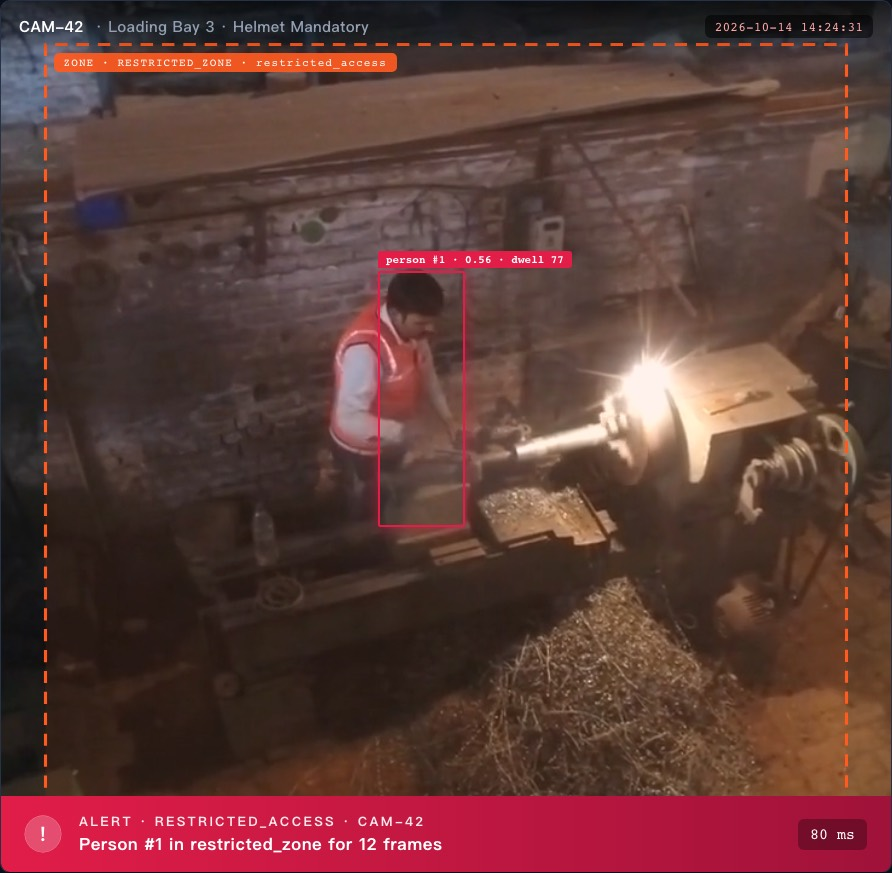
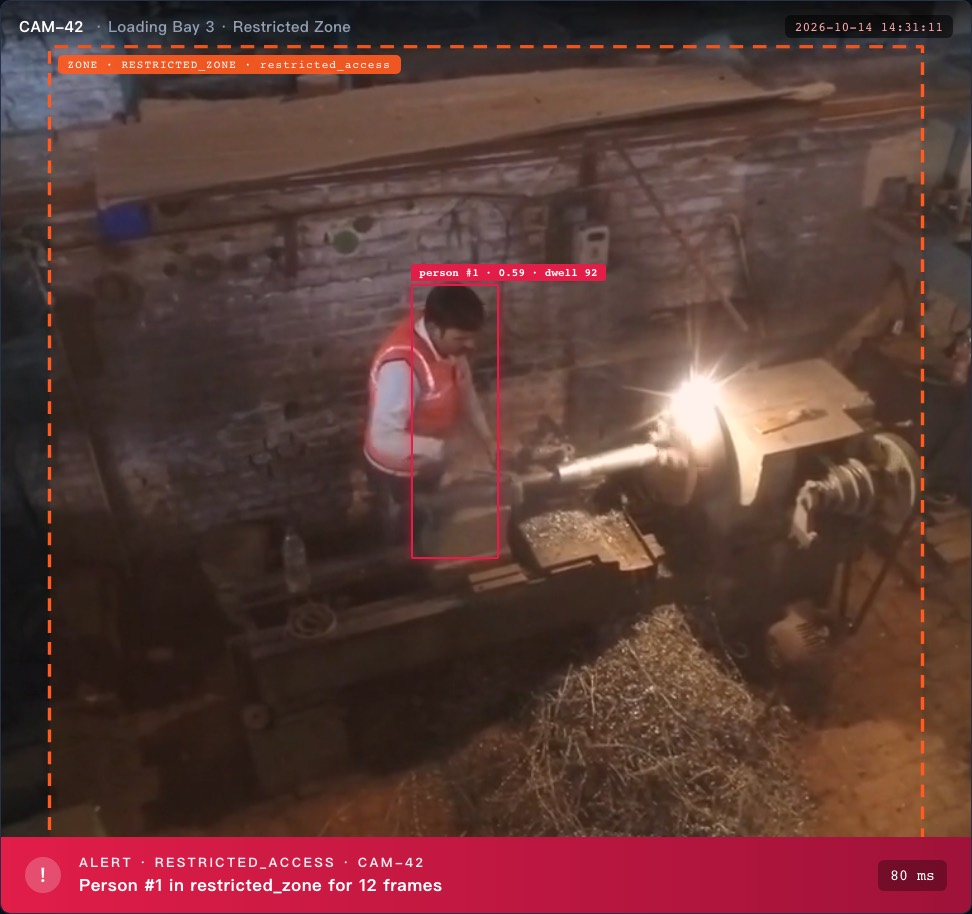
fix(webdemo): resolve rule-naming inconsistency across Live / Rules / History tabs
Reviewer-angle sweep caught three contradictions that would have
undercut trust:

1. CAM-42 feed title said 'Helmet Mandatory' while the live zone label
   and rule engine were running restricted_access. Title → Restricted
   Zone so the on-screen text matches the rule that actually fires.
2. Rule Settings tab listed CAM-42 under 'crane_zone · helmet_mandatory'
   — again contradicting the Live tab. Reorganised so Stage I live
   rules sit on top (restricted_zone · restricted_access · dwell_timer)
   and Stage II rules are explicitly tagged as such.
3. Event History table had the latest CAM-42 row as HELMET_MANDATORY;
   now matches Live tab (RESTRICTED_ACCESS). Older simulated Stage II
   events are labelled '(sim)' so the real/simulated split is honest.

Also added docs/img/rule_settings.jpg so the Stage I vs Stage II split
is visible without having to open the dashboard.

diff --git a/webdemo/index.html b/webdemo/index.html
@@ -78,7 +78,7 @@
   <section class="main-feed">
     <div class="feed-header">
       <div class="cam-title" id="mainCamTitle">
-        CAM-42 <span>· Loading Bay 3 · Helmet Mandatory</span>
+        CAM-42 <span>· Loading Bay 3 · Restricted Zone</span>
       </div>
       <div class="feed-time" id="feedTime">2026-10-14 23:47:00</div>
     </div>
@@ -165,13 +165,13 @@
         <tr><th>Time</th><th>Camera</th><th>Zone</th><th>Kind</th><th>Severity</th><th>Dispatched</th></tr>
       </thead>
       <tbody id="historyTbody">
-        <tr><td class="mono">2026-10-14 23:47:01</td><td>CAM-42</td><td>crane_zone</td><td><span class="tag alert">HELMET_MANDATORY</span></td><td class="sev-high">HIGH</td><td>LINE · MQTT · Strobe</td></tr>
-        <tr><td class="mono">2026-10-14 21:12:34</td><td>CAM-07</td><td>forklift_radius</td><td><span class="tag alert">RESTRICTED_ACCESS</span></td><td class="sev-high">HIGH</td><td>LINE · MQTT</td></tr>
-        <tr><td class="mono">2026-10-14 18:05:22</td><td>CAM-23</td><td>confined_space</td><td><span class="tag info">LONE_WORKER</span></td><td class="sev-med">MED</td><td>LINE</td></tr>
-        <tr><td class="mono">2026-10-14 14:33:17</td><td>CAM-42</td><td>crane_zone</td><td><span class="tag alert">VEST_MANDATORY</span></td><td class="sev-high">HIGH</td><td>LINE · MQTT · Strobe</td></tr>
-        <tr><td class="mono">2026-10-14 10:21:09</td><td>CAM-07</td><td>textile_floor</td><td><span class="tag info">PERSON_COUNT</span></td><td class="sev-low">LOW</td><td>MQTT</td></tr>
-        <tr><td class="mono">2026-10-13 23:51:40</td><td>CAM-42</td><td>crane_zone</td><td><span class="tag alert">HELMET_MANDATORY</span></td><td class="sev-high">HIGH</td><td>LINE · MQTT · Strobe</td></tr>
-        <tr><td class="mono">2026-10-13 19:44:11</td><td>CAM-23</td><td>sewing_line</td><td><span class="tag info">PERSON_COUNT</span></td><td class="sev-low">LOW</td><td>MQTT</td></tr>
+        <tr><td class="mono">2026-10-14 23:47:01</td><td>CAM-42</td><td>restricted_zone</td><td><span class="tag alert">RESTRICTED_ACCESS</span></td><td class="sev-high">HIGH</td><td>LINE · MQTT · Strobe</td></tr>
+        <tr><td class="mono">2026-10-14 21:12:34</td><td>CAM-42</td><td>restricted_zone</td><td><span class="tag alert">RESTRICTED_ACCESS</span></td><td class="sev-high">HIGH</td><td>LINE · MQTT</td></tr>
+        <tr><td class="mono">2026-10-14 18:05:22</td><td>CAM-23</td><td>crane_zone</td><td><span class="tag info">LONE_WORKER <small>(sim)</small></span></td><td class="sev-med">MED</td><td>LINE</td></tr>
+        <tr><td class="mono">2026-10-14 14:33:17</td><td>CAM-07</td><td>loading_bay</td><td><span class="tag alert">VEST_MANDATORY <small>(sim)</small></span></td><td class="sev-high">HIGH</td><td>LINE · MQTT · Strobe</td></tr>
+        <tr><td class="mono">2026-10-14 10:21:09</td><td>CAM-07</td><td>loading_bay</td><td><span class="tag info">PERSON_COUNT <small>(sim)</small></span></td><td class="sev-low">LOW</td><td>MQTT</td></tr>
+        <tr><td class="mono">2026-10-13 23:51:40</td><td>CAM-23</td><td>crane_zone</td><td><span class="tag alert">HELMET_MANDATORY <small>(sim)</small></span></td><td class="sev-high">HIGH</td><td>LINE · MQTT · Strobe</td></tr>
+        <tr><td class="mono">2026-10-13 19:44:11</td><td>CAM-01</td><td>confined_space</td><td><span class="tag info">PERSON_COUNT <small>(sim)</small></span></td><td class="sev-low">LOW</td><td>MQTT</td></tr>
       </tbody>
     </table>
 
@@ -196,20 +196,20 @@
       <div class="rule-list">
         <h3>Site: taichung_plant_01</h3>
         <div class="rule-item active">
-          <div class="r-name">crane_zone (CAM-42)</div>
-          <div class="r-rules">helmet_mandatory · lone_worker_forbidden</div>
-        </div>
-        <div class="rule-item">
-          <div class="r-name">loading_bay (CAM-07)</div>
-          <div class="r-rules">reflective_vest_mandatory</div>
-        </div>
-        <div class="rule-item">
-          <div class="r-name">forklift_radius (CAM-07)</div>
+          <div class="r-name">restricted_zone (CAM-42)</div>
           <div class="r-rules">restricted_access · dwell_timer</div>
         </div>
         <div class="rule-item">
-          <div class="r-name">confined_space (CAM-23)</div>
-          <div class="r-rules">lone_worker_forbidden</div>
+          <div class="r-name">loading_bay (CAM-07)</div>
+          <div class="r-rules">reflective_vest_mandatory <span class="r-badge">Stage II</span></div>
+        </div>
+        <div class="rule-item">
+          <div class="r-name">crane_zone (CAM-23)</div>
+          <div class="r-rules">helmet_mandatory · lone_worker_forbidden <span class="r-badge">Stage II</span></div>
+        </div>
+        <div class="rule-item">
+          <div class="r-name">confined_space (CAM-01)</div>
+          <div class="r-rules">lone_worker_forbidden <span class="r-badge">Stage II</span></div>
         </div>
       </div>
 
@@ -224,15 +224,15 @@
   <span class="yk">weights:</span> <span class="yv">object_detector.pt</span>   <span class="yc"># Hailo HEF in Stage II</span>
 
 <span class="yk">zones:</span>
-  - <span class="yk">name:</span> <span class="yv">crane_zone</span>
+  - <span class="yk">name:</span> <span class="yv">restricted_zone</span>
     <span class="yk">camera:</span> <span class="yv">CAM-42</span>
-    <span class="yk">polygon:</span> [[0.3, 0.1], [0.9, 0.1], [0.9, 0.9], [0.3, 0.9]]
-    <span class="yk">rules:</span> [<span class="yv">helmet_mandatory</span>, <span class="yv">lone_worker_forbidden</span>]
+    <span class="yk">polygon:</span> [[0.05, 0.05], [0.95, 0.05], [0.95, 0.95], [0.05, 0.95]]
+    <span class="yk">rules:</span> [<span class="yv">restricted_access</span>]   <span class="yc"># Stage I live</span>
 
-  - <span class="yk">name:</span> <span class="yv">loading_bay</span>
-    <span class="yk">camera:</span> <span class="yv">CAM-07</span>
-    <span class="yk">polygon:</span> [[0.0, 0.5], [1.0, 0.5], [1.0, 1.0], [0.0, 1.0]]
-    <span class="yk">rules:</span> [<span class="yv">reflective_vest_mandatory</span>]
+  <span class="yc"># Stage II zones (fine-tuned detector required):</span>
+  - <span class="yk">name:</span> <span class="yv">crane_zone</span>
+    <span class="yk">camera:</span> <span class="yv">CAM-23</span>
+    <span class="yk">rules:</span> [<span class="yv">helmet_mandatory</span>, <span class="yv">lone_worker_forbidden</span>]
 
 <span class="yk">policies:</span>
   <span class="yk">min_dwell_frames:</span> <span class="yn">15</span>      <span class="yc"># ~0.5s @ 30fps</span>

diff --git a/webdemo/css/style.css b/webdemo/css/style.css
@@ -529,6 +529,17 @@ button { font-family: inherit; cursor: pointer; border: none; }
   font-size: 11px; color: var(--accent-l);
   margin-top: 4px;
 }
+.r-badge {
+  display: inline-block;
+  margin-left: 6px;
+  padding: 1px 6px;
+  background: rgba(148,160,178,0.18);
+  color: var(--muted);
+  border-radius: 3px;
+  font-size: 10px;
+  letter-spacing: 0.08em;
+}
+.tag small { opacity: 0.7; font-weight: 400; margin-left: 4px; }
 
 .rule-editor {
   background: #0a1222;

diff --git a/README.md b/README.md
@@ -67,10 +67,11 @@ End-to-end budget (Stage II target): frame → alert ≈ 80 ms. Written report i
 │   ├── reporter.py         # Local bilingual LLM reporter (template fallback)
 │   └── outputs.py          # MQTT / LINE / Teams sinks
 ├── scripts/
-│   ├── demo.py             # Live OpenCV demo with real object-detector inference
-│   ├── bench_torch.py      # Torch backend latency / FPS benchmark
-│   ├── export_onnx.py      # Export detector / pose to ONNX for Hailo
-│   └── compile_hailo.sh    # Reference Hailo Dataflow Compiler flow
+│   ├── demo.py                     # Live OpenCV demo with real object-detector inference
+│   ├── bench_torch.py              # Torch backend latency / FPS benchmark
+│   ├── export_onnx.py              # Export detector / pose to ONNX for Hailo
+│   ├── export_webdemo_tracks.py    # Pre-render track JSON that powers webdemo overlay
+│   └── compile_hailo.sh            # Reference Hailo Dataflow Compiler flow
 ├── tests/
 │   ├── test_rule_engine.py # Polygon + dwell + helmet-overlap tests
 │   └── test_reporter.py    # Template-fallback smoke tests
@@ -81,8 +82,10 @@ End-to-end budget (Stage II target): frame → alert ≈ 80 ms. Written report i
 ├── webdemo/                # Static web-based SentinelOps dashboard mockup
 │   ├── index.html          # Dashboard shell: 4 tabs, 4 cams, event stream
 │   ├── css/style.css       # ASUS-orange corporate style
-│   ├── js/app.js           # Tab routing, event trigger, modal, LINE popup
-│   └── assets/videos/      # Four looping camera feeds (CAM-01/07/23/42)
+│   ├── js/app.js           # Tab routing, JS mirror of rule_engine, overlay animation
+│   └── assets/
+│       ├── videos/         # Four looping camera feeds (CAM-01/07/23/42)
+│       └── tracks/         # Pre-rendered per-frame bbox JSON (from export script)
 ├── benchmark.md            # Reference baselines + Stage II target table
 └── requirements.txt
 ```
@@ -138,7 +141,7 @@ For reviewers who want to see the production entry-point rather than the OpenCV 
 
 # Against a local video file (quickest for review)
 python -m src.inference \
-    --source results/sample_factory.mp4 \
+    --source assets/sample_factory.mp4 \
     --config configs/site_example.yaml \
     --backend torch
 
